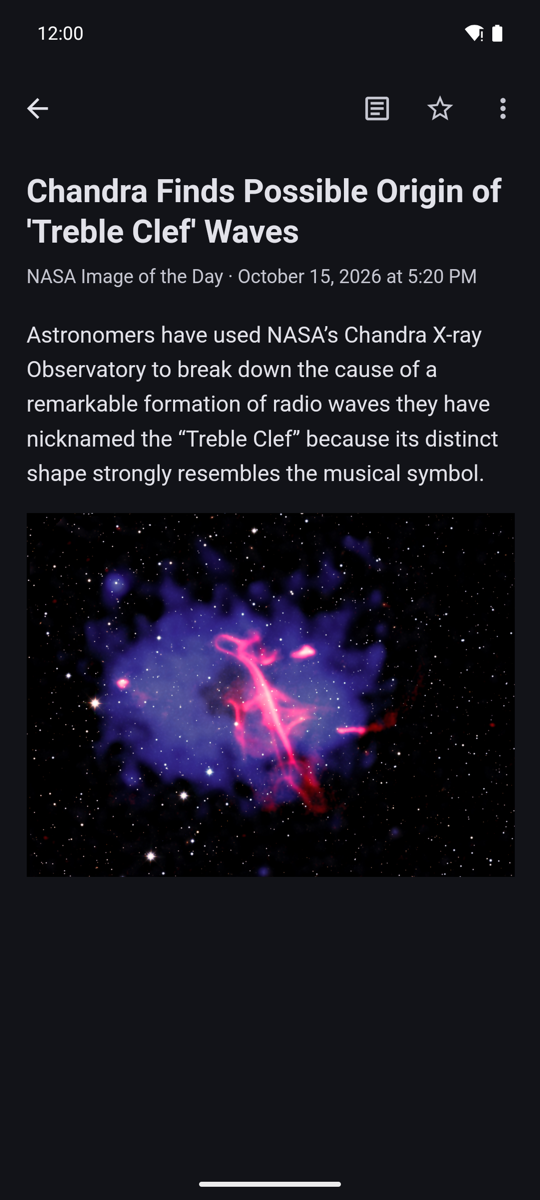
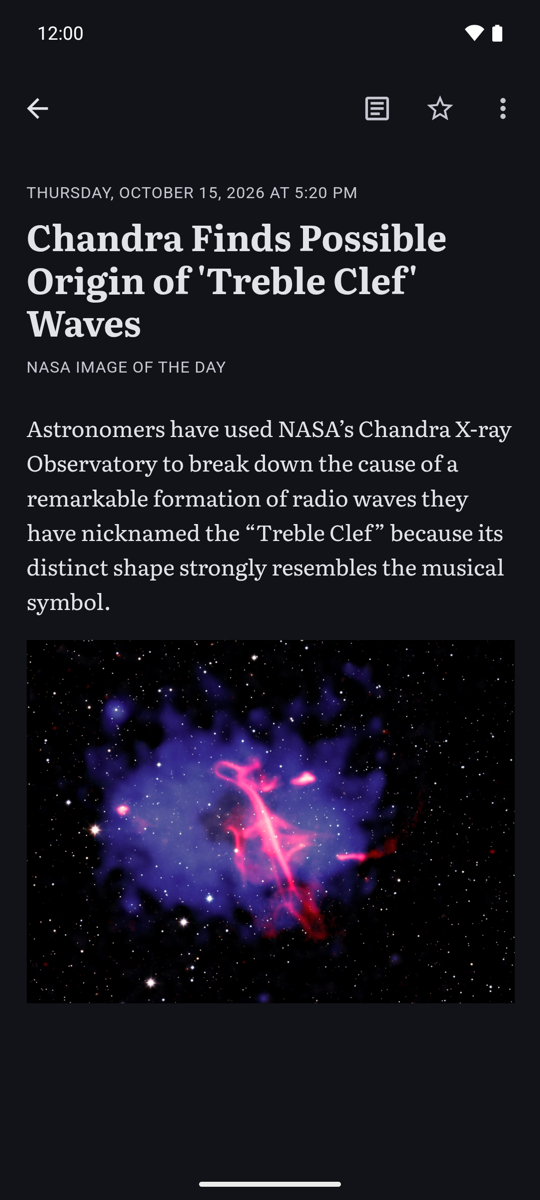
docs: reader screenshots and the license of Literata
Refs #5

Changed region(s): [[0.0296, 0.1233, 0.9481, 0.8017], [0.7704, 0.555, 0.8, 0.5858], [0.2667, 0.8017, 0.2963, 0.8325]]

diff --git a/README.md b/README.md
@@ -19,6 +19,7 @@ Brook keeps the subscriptions of your server on the phone and reads them without
 - Read, star and label entries without a network; the server gets the changes at the next sync.
 - New entries without a manual refresh: while the app is open it asks the server every minute and shows "N new" above the list without moving it. In the background it syncs every 15, 30 or 60 minutes, and can notify about new entries.
 - Push from freshgo through [UnifiedPush](https://unifiedpush.org/): with a distributor such as ntfy, new entries and changes made on other devices reach Brook within seconds, even while it is closed. See [Push](#push).
+- The reader keeps the text to a column of readable width and lets a picture that opens the entry span the screen. Font (the system sans or the bundled Literata), text size and line spacing are in the settings.
 - Full text: the reader extracts the article from the page of the entry on the device. A feed can be set to always show full text; its articles are then downloaded ahead with the pictures.
 - Subscriptions: add a feed by address, rename it, move it to another category, unsubscribe; rename and delete categories and labels; import and export OPML.
 - Search of the downloaded entries by title and text.
@@ -86,3 +87,5 @@ The workflow takes the key from the repository secrets `BROOK_KEYSTORE_BASE64` (
 ## License
 
 [AGPL-3.0](LICENSE), as freshgo.
+
+The bundled font Literata, by The Literata Project Authors, is under the [SIL Open Font License 1.1](app/src/main/assets/fonts/LITERATA-OFL.txt); Brook ships a subset of its Latin and Cyrillic characters.
